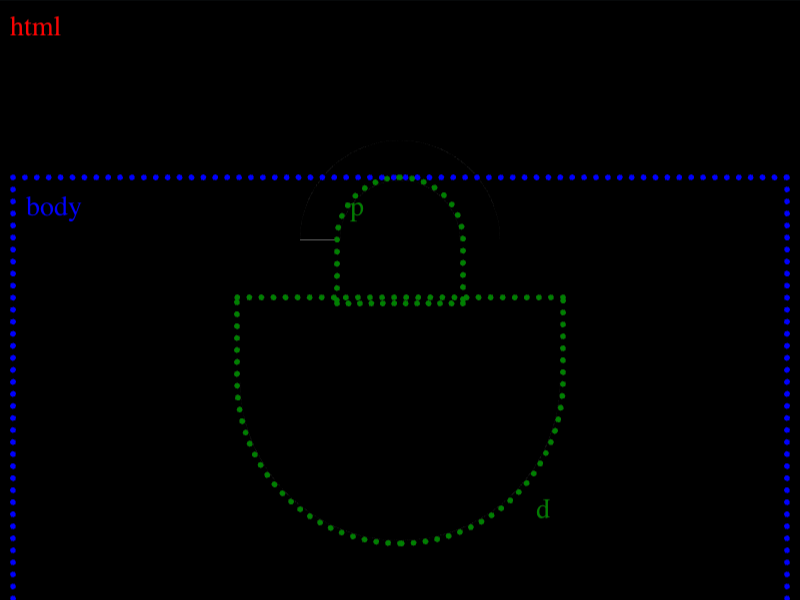
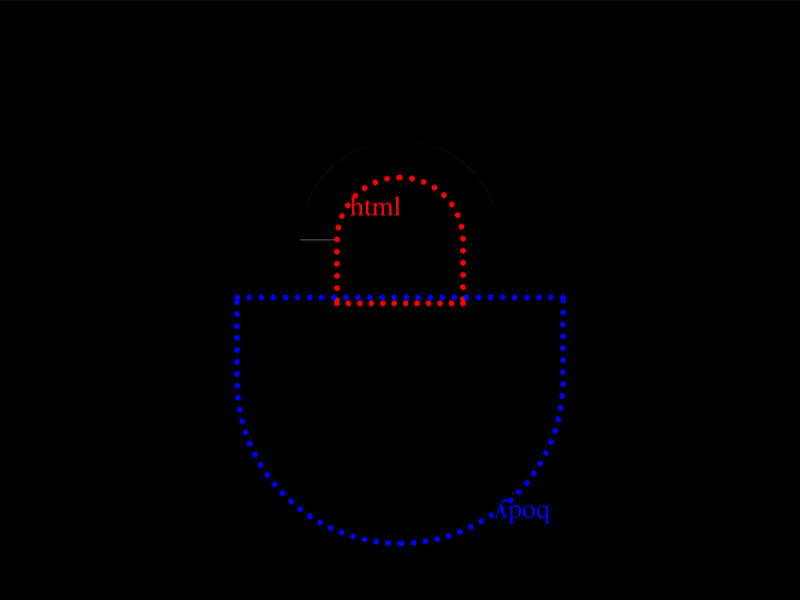
Score: 687.89, Characters: 159 (100.00% match) - CSSHub

diff --git a/Daily Targets/2026-09-10/README.md b/Daily Targets/2026-09-10/README.md
@@ -22,21 +22,20 @@ Challenge: <https://cssbattle.dev/play/YdSTFgl2iKzGCW1ahmEz>
 ## Code
 
 ```html
-<p><p><style>p{margin:90 162;height:60;border-radius:9in 9in 0 0;box-shadow:0 0 0 5vw#333;+p{margin:-90 112;scale:-1;height:120;box-shadow:inset 2in 2in#333,60q 32q#FFF
+<style>*{margin:90 170;height:60;border-radius:9in 9in 0 0;box-shadow:0 0 0 5vw#333;*{margin:60-50;scale:-1;height:120;box-shadow:inset 2in 2in#333,60q 32q#FFF
 ```
 
 ## Prettified code
 
 ```html
-<p><p>
 <style>
-p {
-  margin: 90 162;
+* {
+  margin: 90 170;
   height: 60;
   border-radius: 9in 9in 0 0;
   box-shadow: 0 0 0 5vw #333;
-  + p {
-    margin: -90 112;
+  * {
+    margin: 60 -50;
     scale: -1;
     height: 120;
     box-shadow:
@@ -44,5 +43,6 @@ p {
       60Q 32Q #fff;
   }
 }
+
 </style>
 ```

diff --git a/README.md b/README.md
@@ -239,7 +239,7 @@ Note - I have not yet complete all the challenges.
 <li><a href="./Daily%20Targets/2026-09-07/">Sep 7, 2026</a> (128 Characters)</li>
 <li><a href="./Daily%20Targets/2026-09-08/">Sep 8, 2026</a> (160 Characters)</li>
 <li><a href="./Daily%20Targets/2026-09-09/">Sep 9, 2026</a> (132 Characters)</li>
-<li><a href="./Daily%20Targets/2026-09-10/">Sep 10, 2026</a> (168 Characters)</li>
+<li><a href="./Daily%20Targets/2026-09-10/">Sep 10, 2026</a> (159 Characters)</li>
 </ul>
 </details>
 </li>
